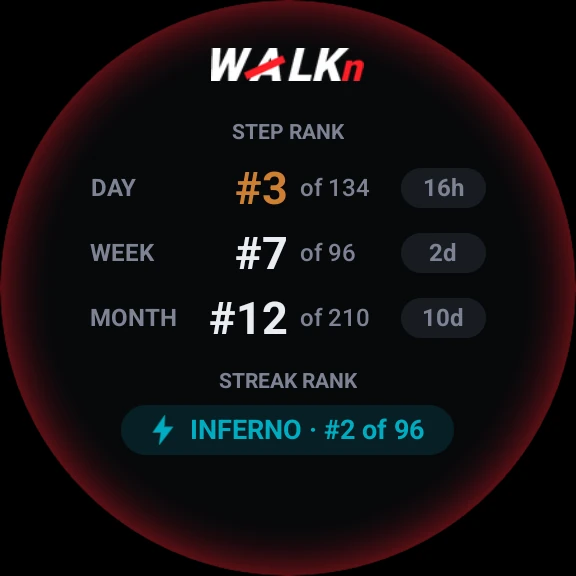
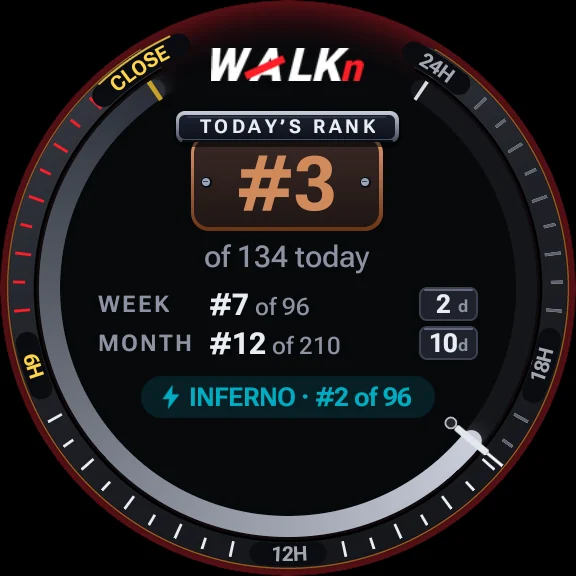
Wear OS frame redesigned: one tile at a time with its description and colour key, a rail of lit marks with a dwell ring, swipe, keyboard tablist, reduced motion; the Wear 1.5.0 tile captures; the lede's in-game gear

diff --git a/index.html b/index.html
@@ -984,10 +984,15 @@
     @media (min-width: 761px) and (max-aspect-ratio: 4/5) {   /* an upright tablet: the verdict under the copy */
       #fair .feature { grid-template-columns: 1fr; gap: 36px; } #fair .copy { max-width: 600px; } .verdict { justify-self: start; } }
 
-    /* 10 · wear (editorial, copy on the right like the Tailor and Goals). The image is the watch's OWN four tiles - the
-       raw captures from the showcase build (store/wear, tools/wear_capture.py) - on ONE round screen that swipes through
-       them the way Wear OS does, one tile every 3.2 s (the frame's one ambient loop), with page dots under it; each
-       tile's line in the copy lights while it shows. Reduced motion: the Day tile, every line lit. */
+    /* 10 · wear (editorial, copy on the right like the Tailor and Goals; redesigned part by part 2026-10-05, record
+       parts/10/). The image is the watch's OWN four tiles - the raw captures from the showcase build (store/wear,
+       tools/wear_capture.py) - one at a time on a round screen. Under it a RAIL of four wordless marks (a tablist) picks
+       the tile; the selected mark's crimson ring fills over the 4.5 s dwell and hands over to the next (the frame's one
+       ambient loop); a click, a key or a swipe holds the tile. The copy shows ONE description: the tile's name, its line
+       and a three-colour key drawn as short lane arcs in the colours the tile really draws. Motion (part 4): the watch
+       swipes with a 7% dip, the description rises in, the keys follow 70 ms apart as their arcs draw, the glyph ignites;
+       on arrival the marks rise in, and on a phone the watch nudges once toward the next tile. Reduced motion: Your day,
+       ring full, nothing moves and nothing advances. */
     #wear .wrap { padding-right: max(24px, 170px - max(0px, (100vw - var(--max)) / 2)); }
     #wear .feature { grid-template-columns: minmax(0, 1fr) minmax(0, min(520px, 40vw)); gap: clamp(48px, 7vw, 120px); }
     #wear .feature .copy { order: 2; }
@@ -996,23 +1001,39 @@
     #wear h2 em { font-style: normal; color: var(--crimson); }
     #wear .copy > p { font-family: var(--editorial); font-weight: 500; font-size: clamp(16px, 2.05vh, 19px); line-height: 1.55;
       letter-spacing: -.005em; color: var(--ed-mute); max-width: 42ch; margin: 0; }
-    .wear-facts { list-style: none; margin: clamp(22px, 3.8vh, 38px) 0 0; padding: 0; }
-    .wear-facts li { border-top: 1px solid rgba(235,232,225,.16); padding: clamp(10px, 1.6vh, 14px) 0 clamp(10px, 1.5vh, 13px); opacity: .5; transition: opacity .4s ease; }
-    .wear-facts li:last-child { border-bottom: 1px solid rgba(235,232,225,.16); }
-    .wear-facts li.on { opacity: 1; }
-    .wear-facts b { display: block; font: 600 clamp(15px, 1.9vh, 17px)/1.2 var(--editorial); letter-spacing: -.012em; color: var(--ed-ink); }
-    .wear-facts span { display: block; margin-top: 5px; font: 500 13.5px/1.45 var(--editorial); color: var(--ed-mute); }
     #wear .copy > p.wear-note { margin: 14px 0 0; font: 500 13px/1.5 var(--editorial); color: var(--ed-mute); max-width: 48ch; }
+    .wt-panel { margin-top: clamp(20px, 3.4vh, 34px); padding: clamp(14px, 2.2vh, 20px) 0; min-height: 5.2em;
+      border-top: 1px solid rgba(255,30,39,.5); border-bottom: 1px solid rgba(235,232,225,.16); }
+    .wt-desc { display: none; }
+    .wt-desc.on { display: block; }
+    .wt-desc b { display: block; font: 600 clamp(19px, 2.4vh, 22px)/1.2 var(--editorial); letter-spacing: -.015em; color: var(--ed-ink); }
+    .wt-desc > span { display: block; margin-top: 7px; font: 500 clamp(15px, 1.9vh, 17px)/1.5 var(--editorial); color: var(--ed-mute); max-width: 46ch; }
+    .wt-key { list-style: none; padding: 0; margin: 14px 0 0; display: grid; gap: 8px; }
+    .wt-key li { display: flex; align-items: center; gap: 12px; font: 500 14px/1.35 var(--editorial); color: var(--ed-ink); opacity: .86; }
+    .wt-key svg { flex: none; width: 26px; height: 14px; overflow: visible; }
+    .wt-key path { fill: none; stroke-width: 3.6; stroke-linecap: round; stroke-dasharray: 32; filter: drop-shadow(0 0 3px currentColor); }
     .wrist { justify-self: center; display: grid; justify-items: center; gap: clamp(14px, 2.4vh, 22px); }
     .wrist-face { --d: clamp(220px, min(30vw, 56dvh), 500px); position: relative; width: var(--d); height: var(--d); border-radius: 50%; overflow: hidden;
+      touch-action: pan-y; cursor: grab;
       background: #000; box-shadow: 0 0 0 1px rgba(235,232,225,.14), 0 0 0 calc(var(--d) * .03) #07090d, 0 0 0 calc(var(--d) * .03 + 1px) rgba(235,232,225,.10), 0 40px 90px rgba(0,0,0,.6); }
-    .wrist-track { display: flex; height: 100%; transition: transform .6s cubic-bezier(.65,0,.35,1); }
-    .wrist-track.snap { transition: none; }
-    .wrist-track img { flex: 0 0 100%; width: 100%; height: 100%; display: block; max-width: none; }
-    .wrist-dots { display: flex; gap: 7px; }
-    .wrist-dots i { width: 6px; height: 6px; border-radius: 50%; background: rgba(235,232,225,.28); transition: background .3s ease, transform .3s ease; }
-    .wrist-dots i.on { background: var(--ed-ink); transform: scale(1.15); }
-    @media (prefers-reduced-motion: reduce) { .wear-facts li { opacity: 1; } }
+    .wrist-track { display: flex; height: 100%; }
+    .wrist-track img { flex: 0 0 100%; width: 100%; height: 100%; display: block; max-width: none; pointer-events: none; }
+    .wt-rail { display: flex; gap: 14px; justify-content: center; }
+    .wt-btn { --s: 52px; position: relative; width: var(--s); height: var(--s); border-radius: 50%; padding: 0; cursor: pointer;
+      border: 1px solid rgba(235,232,225,.22); background: rgba(18,16,17,.55); display: grid; place-items: center; }
+    .wt-btn:hover { border-color: rgba(235,232,225,.5); transform: translateY(-2px); }
+    .wt-btn.on { border-color: #ff1e27; }
+    .wt-btn::before { content: ""; position: absolute; inset: 0; border-radius: 50%; opacity: var(--lit, 0);
+      background: radial-gradient(circle at 50% 42%, rgba(255,30,39,.55), rgba(255,30,39,.10) 72%); }
+    .wt-btn i { position: relative; width: 54%; height: 54%; background: #9a978f; -webkit-mask: var(--ico) center/contain no-repeat; mask: var(--ico) center/contain no-repeat; }
+    .wt-btn:hover i { background: var(--ed-ink); }
+    .wt-btn i.g2 { position: absolute; left: 23%; top: 23%; background: #fff; opacity: var(--lit, 0); transform: scale(calc(.82 + .18 * var(--ig, 1)));
+      filter: drop-shadow(0 0 calc(2px + 6px * var(--ig, 1)) rgba(255,120,120,.75)); }
+    .wt-btn svg { position: absolute; inset: -4px; width: calc(100% + 8px); height: calc(100% + 8px); transform: rotate(-90deg); pointer-events: none; opacity: 0; }
+    .wt-btn svg circle { fill: none; stroke: #ff1e27; stroke-width: 2; stroke-dasharray: 100; stroke-dashoffset: 100; }
+    .wt-btn:focus { outline: none; }
+    .wt-btn:focus-visible { outline: 2px solid var(--ed-ink); outline-offset: 7px; }
+    @media (prefers-reduced-motion: reduce) { .wt-btn:hover { transform: none; } }
     @media (min-width: 761px) and (max-aspect-ratio: 4/5) {   /* an upright tablet: the watch under the copy */
       #wear .feature { grid-template-columns: 1fr; gap: 30px; } #wear .feature .copy { order: 0; max-width: 600px; }
       .wrist { justify-self: start; } .wrist-face { --d: min(40vw, 30dvh); } }
@@ -2320,13 +2341,13 @@
       .loot.l-key, .loot.l-fp, .loot.l-gemR, .loot.l-bpFinish { display: none; }
       #wear .wrap { padding-right: 36px; }
       #wear .feature { grid-template-columns: minmax(0, 1fr); gap: 18px; }
-      #wear .feature .copy { order: 0; max-width: none; }
+      #wear .feature .copy { display: contents; }
+      #wear .copy h2 { order: 1; } #wear .copy > p { order: 2; } #wear .wrist { order: 3; } #wear .wt-panel { order: 4; margin-top: 0; min-height: 0; }
+      #wear .feature { gap: 14px; }
       .wrist { justify-self: center; } .wrist-face { --d: min(62vw, 32dvh); }
-      .wear-facts { margin-top: 14px; }
-      .wear-facts li { opacity: 1; padding: 10px 0; }
-      .wear-facts li:not(.on) { display: none; }   /* phones: only the tile on screen is described */
-      .wear-facts li.on { border-bottom: 1px solid rgba(235,232,225,.16); }
-      .wear-facts span { font-size: 13px; }
+      .wt-btn { --s: 44px; }
+      .wt-desc > span { font-size: 14px; }
+      .wt-key { margin-top: 10px; gap: 6px; } .wt-key li { font-size: 13px; }
       #wear .copy > p.wear-note { display: none; }
       #goals .wrap { padding-right: 36px; }
       #goals .feature { grid-template-columns: minmax(0, 1fr); gap: 16px; }
@@ -2507,7 +2528,7 @@
         <div class="wrap fit">
           <div class="hero-copy">
             <h1 data-s>Your steps build a <em>shoe.</em></h1>
-            <p class="lede" data-s>WALKn is a free step counter with a game on top. Every verified step goes into a real piece of gear on your feet — a shoe that levels up, earns stats, wears down, and slowly becomes unmistakably yours.</p>
+            <p class="lede" data-s>WALKn is a free step counter with a game on top. Every verified step goes into your in-game gear — a virtual shoe that levels up, earns stats, wears down, and slowly becomes unmistakably yours.</p>
             <div class="cta" data-s>
               <a class="gp" href="https://play.google.com/store/apps/details?id=com.walkn.app.walkn"><img src="img/google-play-badge.png" alt="Get it on Google Play" width="564" height="168" /></a>
               <span class="cta-note">Android 10+<span class="sep"></span>Wear OS tiles included</span>
@@ -2733,22 +2754,27 @@
       <div class="slide-inner"><div class="wrap fit feature">
         <div class="copy">
           <h2 data-s>A swipe from the <em>watch face.</em></h2>
-          <p data-s>Four Wear OS tiles put your day, your rank, your shoe and your crates on your wrist. They update from your phone, even with the app closed.</p>
-          <ul class="wear-facts" data-s>
-            <li class="on"><b>Your day</b><span>Steps against your goal, distance and calories.</span></li>
-            <li><b>Your rank</b><span>Day, week and month, each with its countdown to the reset, plus your streak rank.</span></li>
-            <li><b>Your shoe</b><span>Its level and mastery, its damage, and any repair under way.</span></li>
-            <li><b>Your crates</b><span>Every slot and its timer, and which crates are ready to open.</span></li>
-          </ul>
+          <p data-s>Four Wear OS tiles put your steps, your leaderboard rank, your shoe and your crates on your wrist. They update from your phone, even with the app closed.</p>
+          <div class="wt-panel" id="wt-panel" role="tabpanel" aria-labelledby="wt-tab-0" data-s>
+            <div class="wt-desc on" data-k="0"><b>Steps</b><span>Your steps climbing toward your goal, how far is left, and your distance and calories.</span><ul class="wt-key"><li><svg viewBox="0 0 26 14" aria-hidden="true"><path d="M3.5 12 A10 10 0 0 1 22.5 12" stroke="#ff1e27"/></svg>Climbing to your goal</li><li><svg viewBox="0 0 26 14" aria-hidden="true"><path d="M3.5 12 A10 10 0 0 1 22.5 12" stroke="#ffd54a"/></svg>The last tenth, and every step past it</li><li><svg viewBox="0 0 26 14" aria-hidden="true"><path d="M3.5 12 A10 10 0 0 1 22.5 12" stroke="#2fbf6e"/></svg>Goal hit</li></ul></div>
+            <div class="wt-desc" data-k="1"><b>Leaderboard Rank</b><span>Where you stand today and how long is left to climb, plus your week, month and streak.</span><ul class="wt-key"><li><svg viewBox="0 0 26 14" aria-hidden="true"><path d="M3.5 12 A10 10 0 0 1 22.5 12" stroke="#e9ecf2"/></svg>Hours left on today's board</li><li><svg viewBox="0 0 26 14" aria-hidden="true"><path d="M3.5 12 A10 10 0 0 1 22.5 12" stroke="#ff1e27"/></svg>The last 6 hours</li><li><svg viewBox="0 0 26 14" aria-hidden="true"><path d="M3.5 12 A10 10 0 0 1 22.5 12" stroke="#ffd54a"/></svg>A podium place: gold, silver or bronze</li></ul></div>
+            <div class="wt-desc" data-k="2"><b>Gear Status</b><span>Its XP and damage side by side, its level, and what any damage is costing you.</span><ul class="wt-key"><li><svg viewBox="0 0 26 14" aria-hidden="true"><path d="M3.5 12 A10 10 0 0 1 22.5 12" stroke="#ffd54a"/></svg>XP to the next level</li><li><svg viewBox="0 0 26 14" aria-hidden="true"><path d="M3.5 12 A10 10 0 0 1 22.5 12" stroke="#e8890c"/></svg>Damage past 70%: it starts to cost you</li><li><svg viewBox="0 0 26 14" aria-hidden="true"><path d="M3.5 12 A10 10 0 0 1 22.5 12" stroke="#ff1e27"/></svg>From 85%: your rank is at risk</li></ul></div>
+            <div class="wt-desc" data-k="3"><b>Crates</b><span>The crates you earned today, how close the next one is, and when each one unlocks.</span><ul class="wt-key"><li><svg viewBox="0 0 26 14" aria-hidden="true"><path d="M3.5 12 A10 10 0 0 1 22.5 12" stroke="#e8890c"/></svg>Everyday crates, red once the day is full</li><li><svg viewBox="0 0 26 14" aria-hidden="true"><path d="M3.5 12 A10 10 0 0 1 22.5 12" stroke="#ffd54a"/></svg>Spots only a pass can open</li><li><svg viewBox="0 0 26 14" aria-hidden="true"><path d="M3.5 12 A10 10 0 0 1 22.5 12" stroke="#2fbf6e"/></svg>Your next crate, building</li></ul></div>
+          </div>
           <p class="wear-note" data-s>The watch app installs from Google Play on the watch, and WALKn on your phone shows when the two are linked.</p>
         </div>
         <div class="wrist" data-s>
-          <div class="wrist-face" role="img" aria-label="WALKn's four Wear OS tiles: your day, your rank, your shoe and your crates">
+          <div class="wrist-face" role="img" aria-label="The Steps tile">
             <div class="wrist-track">
-              <img src="img/wear_01_day.webp" alt="" /><img src="img/wear_02_rank.webp" alt="" /><img src="img/wear_03_gear.webp" alt="" /><img src="img/wear_04_crates.webp" alt="" /><img src="img/wear_01_day.webp" alt="" />
+              <img src="img/wear_01_day.webp" alt="" /><img src="img/wear_02_rank.webp" alt="" /><img src="img/wear_03_gear.webp" alt="" /><img src="img/wear_04_crates.webp" alt="" />
             </div>
           </div>
-          <div class="wrist-dots" aria-hidden="true"><i class="on"></i><i></i><i></i><i></i></div>
+          <div class="wt-rail" role="tablist" aria-label="Wear OS tiles">
+            <button class="wt-btn on" type="button" role="tab" id="wt-tab-0" aria-controls="wt-panel" aria-selected="true" tabindex="0" data-k="0" aria-label="Steps" style="--ico:url(img/wt_walk.svg);--lit:1"><i></i><i class="g2"></i><svg viewBox="0 0 36 36"><circle cx="18" cy="18" r="16" pathLength="100"/></svg></button>
+            <button class="wt-btn" type="button" role="tab" id="wt-tab-1" aria-controls="wt-panel" aria-selected="false" tabindex="-1" data-k="1" aria-label="Leaderboard Rank" style="--ico:url(img/wt_trophy.svg);--lit:0"><i></i><i class="g2"></i><svg viewBox="0 0 36 36"><circle cx="18" cy="18" r="16" pathLength="100"/></svg></button>
+            <button class="wt-btn" type="button" role="tab" id="wt-tab-2" aria-controls="wt-panel" aria-selected="false" tabindex="-1" data-k="2" aria-label="Gear Status" style="--ico:url(img/wt_shoe.png);--lit:0"><i></i><i class="g2"></i><svg viewBox="0 0 36 36"><circle cx="18" cy="18" r="16" pathLength="100"/></svg></button>
+            <button class="wt-btn" type="button" role="tab" id="wt-tab-3" aria-controls="wt-panel" aria-selected="false" tabindex="-1" data-k="3" aria-label="Crates" style="--ico:url(img/wt_crate.svg);--lit:0"><i></i><i class="g2"></i><svg viewBox="0 0 36 36"><circle cx="18" cy="18" r="16" pathLength="100"/></svg></button>
+          </div>
         </div>
       </div></div>
     </section>
@@ -3943,28 +3969,106 @@
       sync();
     })();
 
-    /* 10 · the watch swipes through its four tiles (the last image is the first again, so the loop runs forward and snaps
-       back unseen); the dots and the copy's line follow. Starts on Your day each time the frame arrives. */
+    /* 10 · the watch (approved part by part 2026-10-05, record parts/10/). One clock drives every moving value, frame by
+       frame, only while the frame is on screen: the tile swipe (650 ms, a 7% dip), the description (the old one out in
+       150 ms, the new one rising in over 380 ms, its keys 70 ms apart as their arcs draw), the mark (lit over 260 ms, the
+       glyph igniting over 320 ms), the dwell ring (4.5 s, then the next tile), the arrival (the marks rise in 80 ms apart,
+       the ring starts at 700 ms) and, on a phone, one nudge toward the next tile. A click, an arrow key or a swipe holds
+       the tile until the frame is entered again; the pointer or keyboard focus on the watch or the rail pauses the ring.
+       Reduced motion: nothing moves and nothing advances. The rail is a tablist (roving tabindex; arrows and Home/End
+       move AND select); the panel is a tabpanel and is NOT live, so the auto-advance is silent. */
     (function () {
       var sec = document.getElementById('wear'); if (!sec) return;
-      var track = sec.querySelector('.wrist-track'), dots = [].slice.call(sec.querySelectorAll('.wrist-dots i'));
-      var facts = [].slice.call(sec.querySelectorAll('.wear-facts li'));
-      if (matchMedia('(prefers-reduced-motion: reduce)').matches) return;
-      var n = 0, timer = 0, was = false, N = dots.length;
-      function mark(k) { dots.forEach(function (d, i) { d.classList.toggle('on', i === k); }); facts.forEach(function (f, i) { f.classList.toggle('on', i === k); }); }
-      function to(i, snap) { track.classList.toggle('snap', !!snap); track.style.transform = 'translateX(' + (-100 * i) + '%)'; }
-      function step() {
-        n++; to(n); mark(n % N);
-        if (n === N) setTimeout(function () { n = 0; to(0, true); }, 650);
+      var face = sec.querySelector('.wrist-face'), track = sec.querySelector('.wrist-track'), rail = sec.querySelector('.wt-rail');
+      var btns = [].slice.call(sec.querySelectorAll('.wt-btn')), descs = [].slice.call(sec.querySelectorAll('.wt-desc'));
+      var panel = sec.querySelector('.wt-panel'), NAMES = ['Steps', 'Leaderboard Rank', 'Gear Status', 'Crates'], N = 4;
+      var RM = matchMedia('(prefers-reduced-motion: reduce)').matches, phone = matchMedia('(max-width: 760px)').matches;
+      var DWELL = 4500, ARRIVE = RM ? 0 : 700;
+      var from = 0, to = 0, off = 0, t0 = -1e9, tD = -1e9, dFrom = 0, tA = 0, tW = 0, held = false, drag = null, paused = false, pausedAt = 0, raf = 0;
+      function cl(x) { return RM ? 1 : (x < 0 ? 0 : x > 1 ? 1 : x); }
+      function eio(p) { return p < .5 ? 4 * p * p * p : 1 - Math.pow(-2 * p + 2, 3) / 2; }
+      function eout(p) { return 1 - Math.pow(1 - p, 3); }
+      function now() { return performance.now(); }
+      /* tW: when the current dwell began; a pause moves it on, so only the ring stops - never the motion */
+      function select(i, t, o) { if (i !== to) { tD = t; dFrom = to; } from = to; to = i; t0 = t; tW = t; off = o || 0; aria(); }
+      function aria() {
+        btns.forEach(function (b, i) { b.setAttribute('aria-selected', i === to ? 'true' : 'false'); b.tabIndex = i === to ? 0 : -1; });
+        panel.setAttribute('aria-labelledby', 'wt-tab-' + to); face.setAttribute('aria-label', 'The ' + NAMES[to] + ' tile');
       }
+      function render() {
+        var t = now(), tw = paused ? pausedAt : t;
+        if (!RM && !paused && !held && t - tW >= DWELL) select((to + 1) % N, tW + DWELL);
+        var dt = t - t0, dd = t - tD;
+        /* the tile: a swipe starts where the finger let go (off, in tiles); a finger down drags it */
+        var p = cl(dt / 650), e = eio(p);
+        var pos = drag != null ? to - drag / face.clientWidth : (from + off) + (to - from - off) * e;
+        if (!RM && phone && drag == null) pos += .14 * Math.sin(Math.PI * cl((t - tA - 1000) / 700));
+        track.style.transform = 'translateX(' + (-100 * pos).toFixed(3) + '%)';
+        face.style.transform = RM ? '' : 'scale(' + (1 - .07 * Math.sin(Math.PI * p)).toFixed(4) + ')';
+        /* the description */
+        var out = cl(dd / 150);
+        descs.forEach(function (d) {
+          var k = +d.dataset.k, show = (dFrom !== to && out < 1) ? k === dFrom : k === to;
+          d.classList.toggle('on', show); if (!show) return;
+          if (k === dFrom && dFrom !== to && out < 1) { d.style.opacity = 1 - out; d.style.transform = ''; return; }
+          var q = eout(cl((dd - 150) / 380));
+          d.style.opacity = q; d.style.transform = 'translateY(' + (10 * (1 - q)).toFixed(2) + 'px)';
+          [].slice.call(d.querySelectorAll('.wt-key li')).forEach(function (li, j) {
+            var r = eout(cl((dd - 270 - 70 * j) / 300));
+            li.style.opacity = .86 * r; li.style.transform = 'translateX(' + (-6 * (1 - r)).toFixed(2) + 'px)';
+            li.querySelector('path').style.strokeDashoffset = (32 * (1 - eout(cl((dd - 270 - 90 * j) / 420)))).toFixed(2);
+          });
+        });
+        /* the marks */
+        var lit = eout(cl(dd / 260)), ig = eout(cl(dd / 320));
+        btns.forEach(function (b, k) {
+          var on = k === to, was = k === dFrom && dFrom !== to;
+          b.classList.toggle('on', on);
+          b.style.setProperty('--lit', (on ? lit : (was ? 1 - lit : 0)).toFixed(3));
+          b.style.setProperty('--ig', (on ? ig : 0).toFixed(3));
+          var rp = on ? (held || RM ? 1 : Math.min(1, Math.max(0, (tw - tW) / DWELL))) : 0;
+          var ring = b.querySelector('svg'); ring.style.opacity = on && t >= tA + ARRIVE ? 1 : 0;
+          ring.firstChild.style.strokeDashoffset = (100 - 100 * rp).toFixed(2);
+          var ap = eout(cl((t - tA - 250 - 80 * k) / 380)); b.style.opacity = ap; b.style.translate = '0 ' + (10 * (1 - ap)).toFixed(2) + 'px';
+        });
+      }
+      function loop() { raf = 0; if (!sec.classList.contains('active')) return; render(); raf = requestAnimationFrame(loop); }
+      function pause(on) {
+        if (on === paused) return;
+        if (on) { pausedAt = now(); } else { tW += now() - pausedAt; }
+        paused = on;
+      }
+      btns.forEach(function (b, i) {
+        b.addEventListener('click', function () { held = true; select(i, now()); });
+        b.addEventListener('keydown', function (e) {
+          var k = { ArrowRight: (i + 1) % N, ArrowLeft: (i + N - 1) % N, Home: 0, End: N - 1 }[e.key];
+          if (k == null) return; e.preventDefault(); e.stopPropagation(); held = true; select(k, now()); btns[k].focus();   /* Home/End walk the site's frames otherwise */
+        });
+      });
+      [face, rail].forEach(function (el) {
+        el.addEventListener('pointerenter', function (e) { if (e.pointerType === 'mouse') pause(true); });
+        el.addEventListener('pointerleave', function () { if (!rail.contains(document.activeElement)) pause(false); });
+        el.addEventListener('focusin', function () { pause(true); });
+        el.addEventListener('focusout', function () { pause(false); });
+      });
+      face.addEventListener('pointerdown', function (ev) {
+        var x0 = ev.clientX; drag = 0; face.setPointerCapture(ev.pointerId);
+        function mv(e2) { drag = e2.clientX - x0; }
+        function up() {
+          face.removeEventListener('pointermove', mv); face.removeEventListener('pointercancel', up);
+          var d = drag || 0, w = face.clientWidth; drag = null; held = true;
+          select(Math.abs(d) < 40 ? to : (d < 0 ? (to + 1) % N : (to + N - 1) % N), now(), -d / w);
+        }
+        face.addEventListener('pointermove', mv); face.addEventListener('pointerup', up, { once: true }); face.addEventListener('pointercancel', up, { once: true });
+      });
+      /* each arrival starts on Your day, with the marks rising in */
+      var was = false;
       function sync() {
         var on = sec.classList.contains('active'); if (on === was) return; was = on;
-        clearInterval(timer);
-        n = 0; to(0, true); mark(0);
-        if (on) timer = setInterval(step, 3200);
+        if (on) { tA = now(); tW = tA + ARRIVE; t0 = tD = -1e9; from = to = dFrom = 0; off = 0; held = false; paused = false; aria(); if (!raf) raf = requestAnimationFrame(loop); }
       }
       new MutationObserver(sync).observe(sec, { attributes: true, attributeFilter: ['class'] });
-      sync();
+      aria(); sync(); if (!was) { tA = now(); tW = 1e15; render(); }   /* off screen: Your day at rest, nothing advancing */
     })();
 
     /* 12 · the finale's loot leans with the pointer (a few px, by depth); desktop pointers only, motion allowed */
